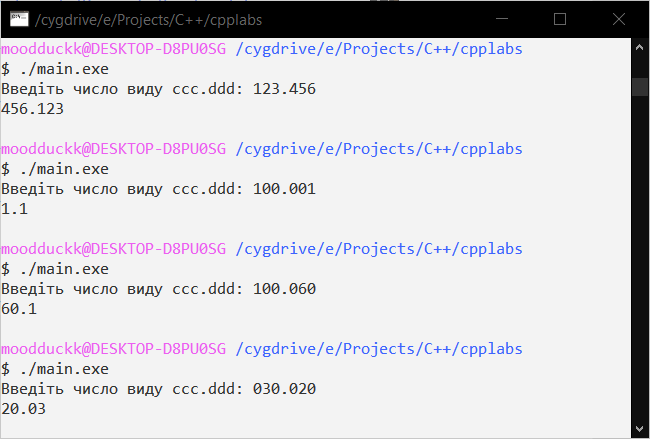
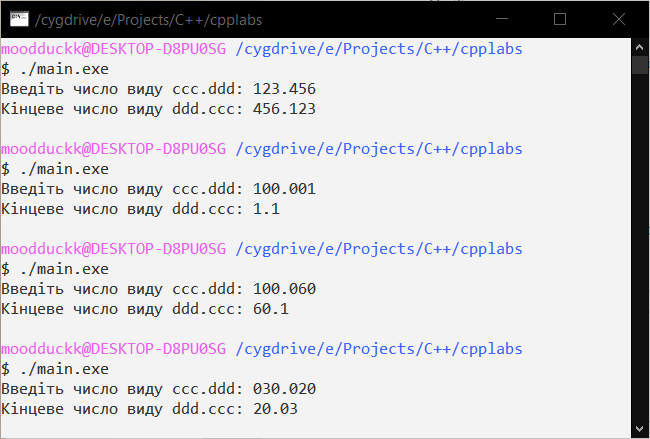
[lab 01] Add comments

diff --git a/01-swap-floor-and-ceiling/main.cpp b/01-swap-floor-and-ceiling/main.cpp
@@ -1,19 +1,18 @@
-#include <iostream>
+#include <stdio.h>
 #include <cmath>
 
 
-int main()
-{
-    double a;
+int main() {
+    double a;                                        // Вхіде число виду ccc.ddd
 
-    std::cout << "Введіть число виду ccc.ddd: ";
+    printf("Введіть число виду ccc.ddd: ");
     scanf("%lf", &a);
 
-    int ccc = (int) a;
-    int ddd = (int) round( (a - ccc) * pow(10, 3) );
+    int ccc = (int) a;                               // Ціла частина вхідного числа
+    int ddd = (int) round( (a - ccc) * pow(10, 3) ); // Дробова частина вхідного чила
 
-    double result = ddd + ccc * pow(10, -3);
-    printf("%lg\n", result);
+    double result = ddd + ccc * pow(10, -3);         // Кінцеве число виду ddd.ccc
+    printf("Кінцеве число виду ddd.ccc: %lg\n", result);
 
     return 0;
 }
